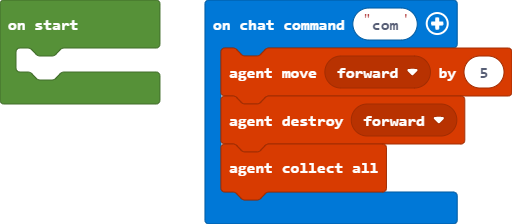
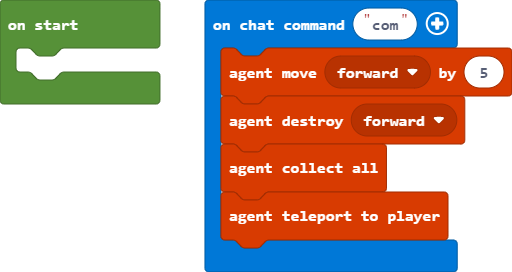
tp

Changed region(s): [[0.4062, 0.0, 1.0, 0.9375], [0.0, 0.0625, 0.3125, 0.4688]]

diff --git a/main.ts b/main.ts
@@ -2,4 +2,5 @@ player.onChat("com", function () {
     agent.move(FORWARD, 5)
     agent.destroy(FORWARD)
     agent.collectAll()
+    agent.teleportToPlayer()
 })
